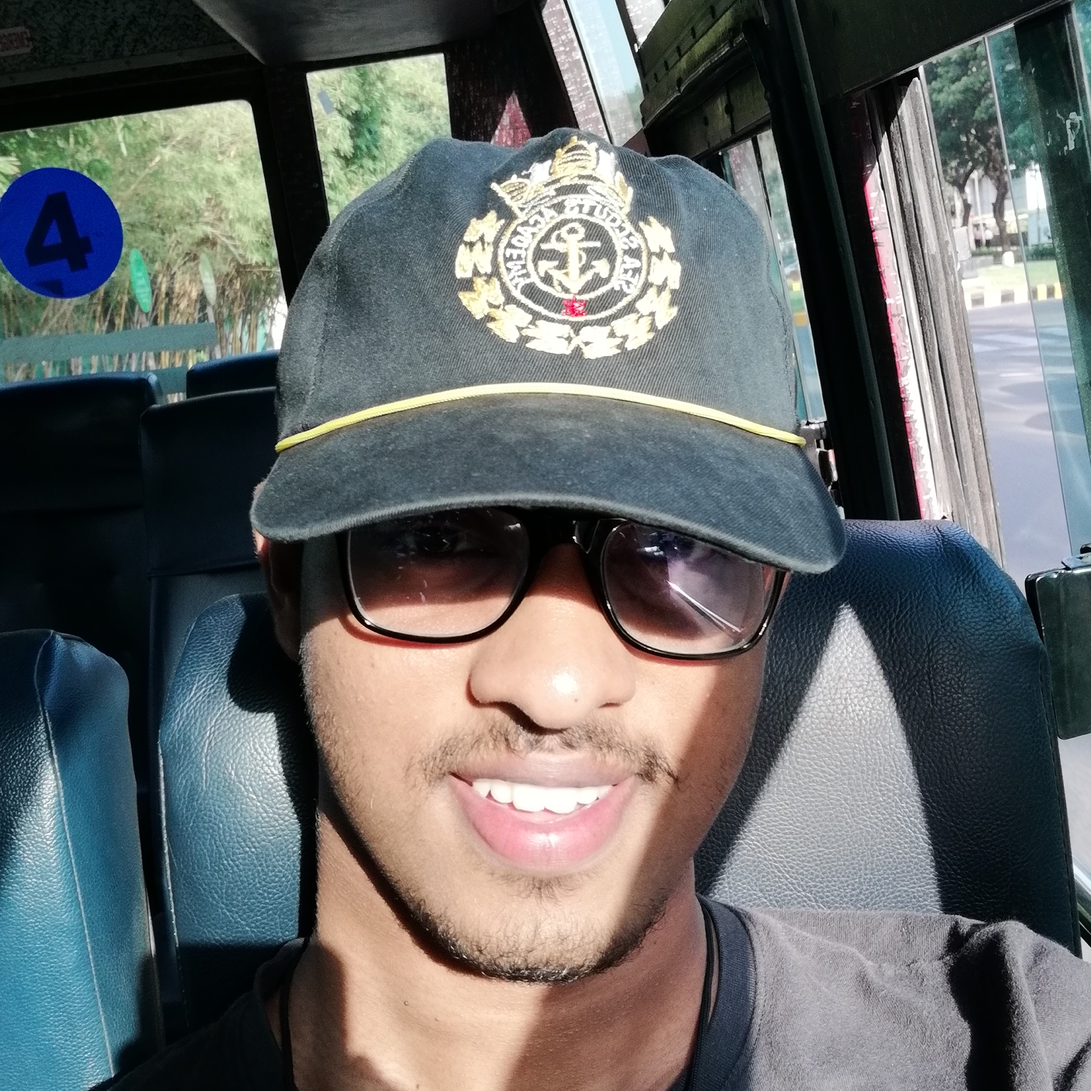
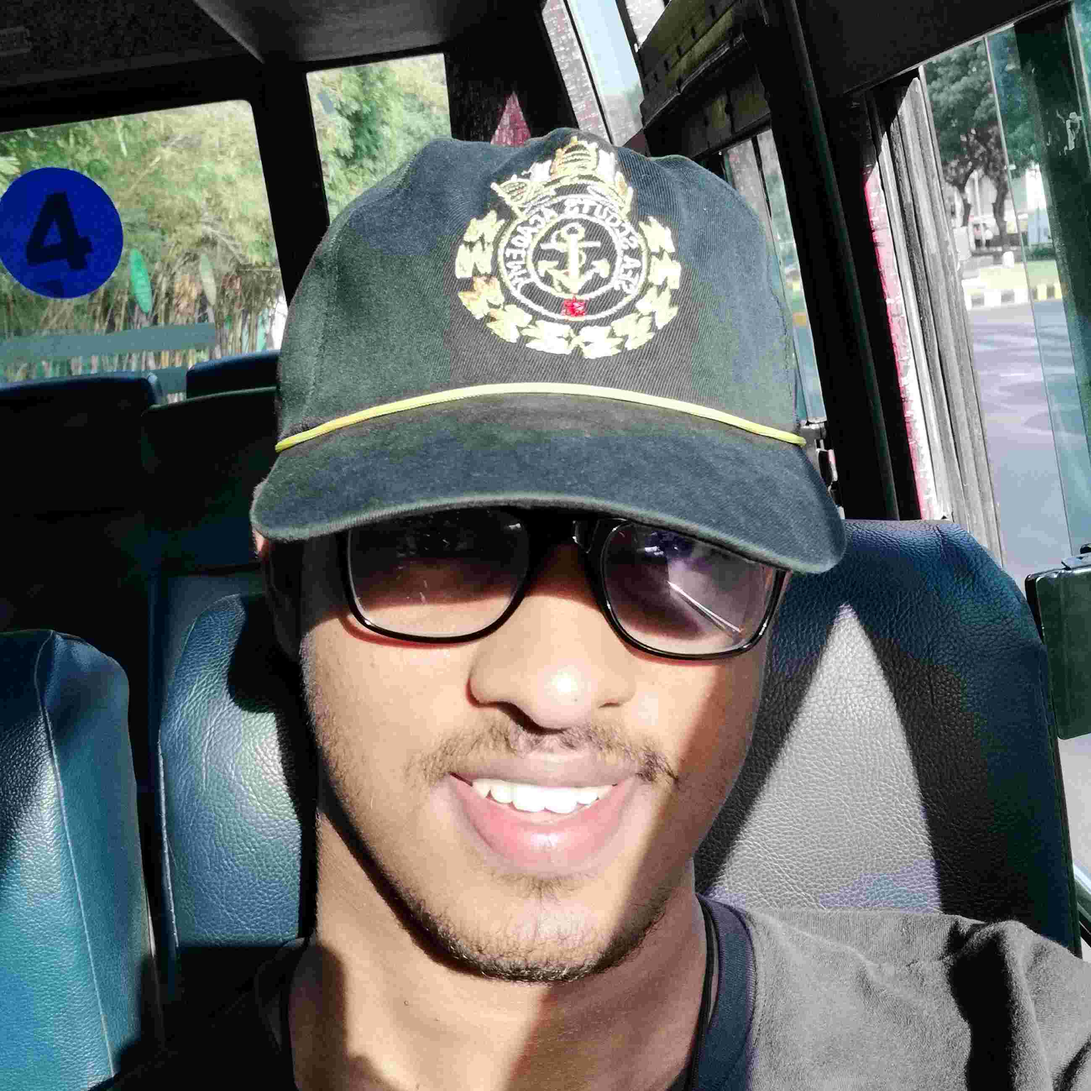
Yearly changes
Profile pic size reduced.
Profile pic is moved from header to main screen.
Fixed some typo.

Changed region(s): [[0.2805, 0.374, 0.3117, 0.4052], [0.0312, 0.7168, 0.0623, 0.748]]

diff --git a/docs/index.html b/docs/index.html
@@ -47,17 +47,15 @@
   }
 }
 
-		</style>
+</style>
 	</head>
 	<body class="is-preload">
 
 		<!-- Header -->
 			<section id="header">
 				<header>
-					<span class="image avatar"><img src="images/prof.jpg" alt="" /></span>
-					<h1 id="logo"><a href="#">Ashwin Vallaban</a></h1>
+					<h1 id="logo">Ashwin Vallaban</h1>
 					<p>learning living loving</p>
-					
 				</header>
 				<nav id="nav">
 					<ul>
@@ -87,11 +85,15 @@
 								<div class="image main" data-position="center">
 									<img src="images/banner.jpg" alt="" />
 								</div>
+								
+
 								<div class="container">
 									<header class="major">
 										<center>
+										<span class="image avatar"><img src="images/prof.jpg" width="200" alt="" /></span>
+										<p>learning living loving</p>
 										<h2>Welcome to my 🌏 </h2>
-										<h3>#All My Crazy Stuffs In One Place :)</h3>
+										<h3>#All-My-Crazy-Stuffs-At-One-Place :)</h3>
 										<br/><br/>
 										<h3>See my Resume 📝</h3>
 										<form action="https://bit.ly/ashvnv-resume" target="_blank">

diff --git a/docs/assets/css/main.css b/docs/assets/css/main.css
@@ -2203,7 +2203,7 @@ input, select, textarea {
 			.image.avatar img {
 				border-radius: 100%;
 				display: block;
-				width: 100%;
+				/*width: 100%;*/
 			}
 
 		.image.main {

diff --git a/README.md b/README.md
@@ -1,9 +1,9 @@
 - 👋 Hi, I’m Ashwin
 - 👀 Hobby: building stuff, breaking stuff, rebuilding stuff (>‿◠)✌
-- 🌱 I’m currently majoring in Electronics Engineering from a Planet named Earth 🌏 inside the Milky Way 🌌
-- 🤖 Explore my Electronics Projects on Instructables 👉 [here](https://www.instructables.com/member/ashvnv/)
-- 😉 Reach me anytime using this awesome old internet service 📧 *ashwinvallab@outlook.com*
+- 🌱 I’m Engineering in a Planet named Earth 🌏 inside the Milky Way 🌌
 - 📝 See my Resume 👉 [here](https://bit.ly/ashvnv-resume)
+- 🤖 Explore all my Projects 👉 [here](https://github.com/ashvnv/ashvnv/blob/main/docs/projects.md)
+- 😉 Reach me anytime using this awesome old internet service 📧 *ashwinvallab@outlook.com*
 <!---
 ashvnv/ashvnv is a ✨ special ✨ repository because its `README.md` (this file) appears on your GitHub profile.
 You can click the Preview link to take a look at your changes.
